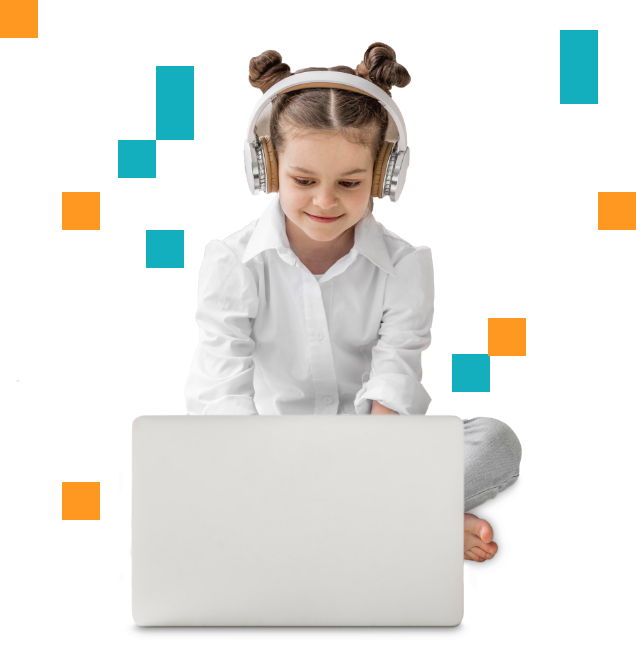
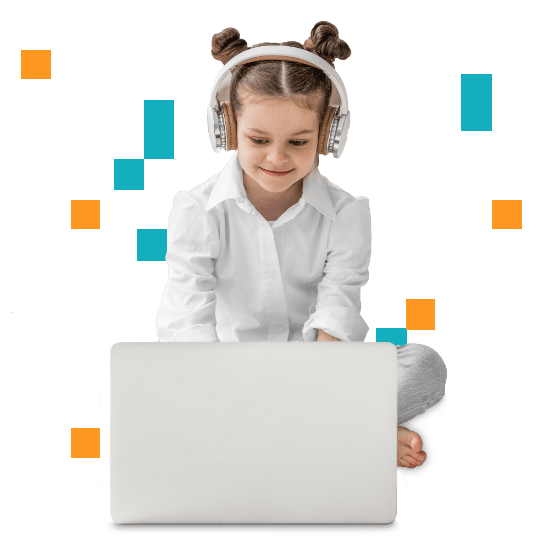
cambio las imagenes por unas mas lijeras, para gade academy

diff --git a/public/css/gadeAcademy.css b/public/css/gadeAcademy.css
@@ -1,6 +1,6 @@
 .parent_container {
   display: grid;
-  height: 380rem;
+  height: 400rem;
   grid-template-rows: 25% 13% 13% 20% 10% 10% 9%;
   row-gap: 0px;
   grid-template-areas:
@@ -14,7 +14,7 @@
 }
 
 .parent_container--general_information {
-  background-image: url(../img/Landing_Head.png);
+  background-image: url(../img/ladin_head.jpg);
   background-color: #F5F5F5;
   background-repeat: no-repeat;
   background-size: 100% 100%;
@@ -245,4 +245,61 @@
 .contac_numbers--img_l_text_r {
   display: flex;
   flex-direction: row;
+}
+
+.parent_container--pop_up_free_star {
+  display: none;
+  position: absolute;
+  padding-left: 5rem;
+  width: 500px;
+  height: 600px;
+  top: 40%;
+  left: 50%;
+  margin-top: -150px;
+  margin-left: -250px;
+  background-image: url(../img/Log_infondo.png);
+  background-repeat: no-repeat;
+  background-size: 100% 100%;
+}
+
+.parent_container--pop_up_free_star form {
+  display: flex;
+  flex-direction: column;
+  height: auto;
+  width: 90%;
+  margin-top: 5rem;
+}
+
+.pop_up_free_star--inputs {
+  display: flex;
+  flex-direction: column;
+  margin-bottom: 2rem;
+  width: 80%;
+  height: 80%;
+  justify-content: space-around;
+}
+
+.inputStyle input{
+  width: 95%;
+  margin: 0.5rem;
+  border-radius: 0.7rem;
+  padding: 0.5rem;
+  border: grey;
+}
+
+.inputs--day_of_class {
+  margin-top: 2rem;
+}
+
+.inputs--day_of_class select{
+  margin: 5px;
+  width: 30%;
+  height: 25px;
+  border-radius: 7px;
+  padding: 5px;
+  border: grey;
+}
+
+.parent_container--pop_up_free_star button{ 
+  margin-left: 5rem;
 }
